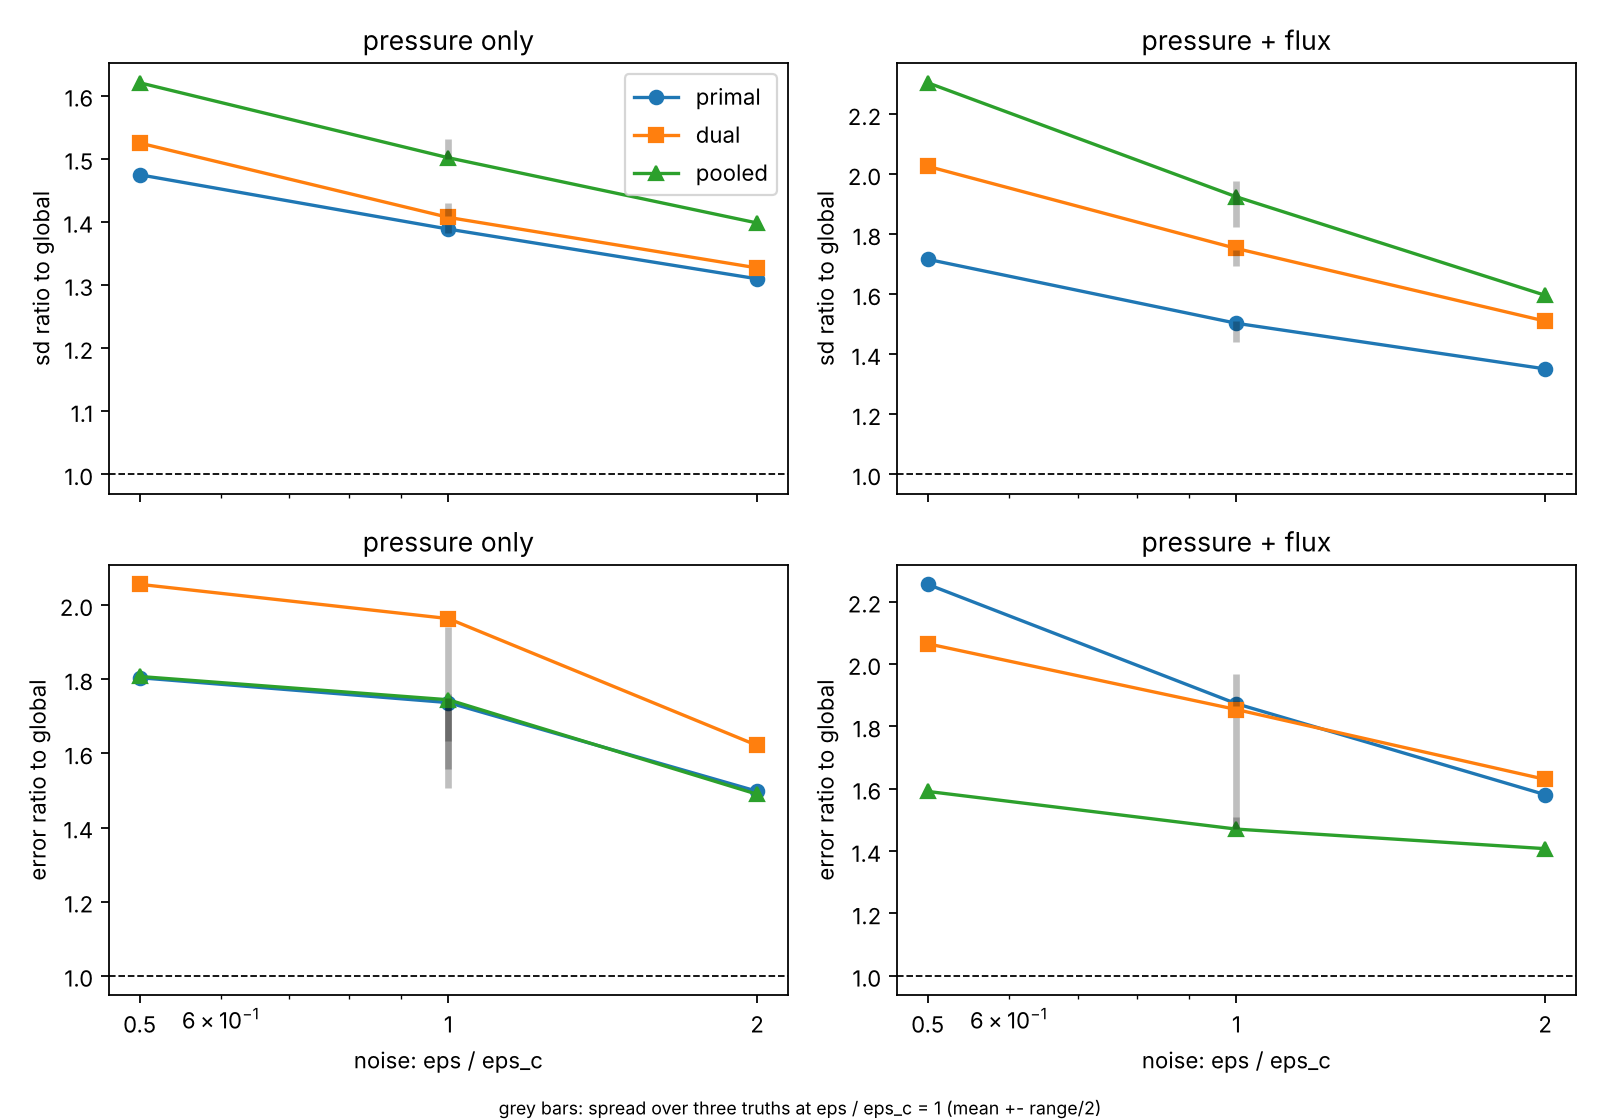
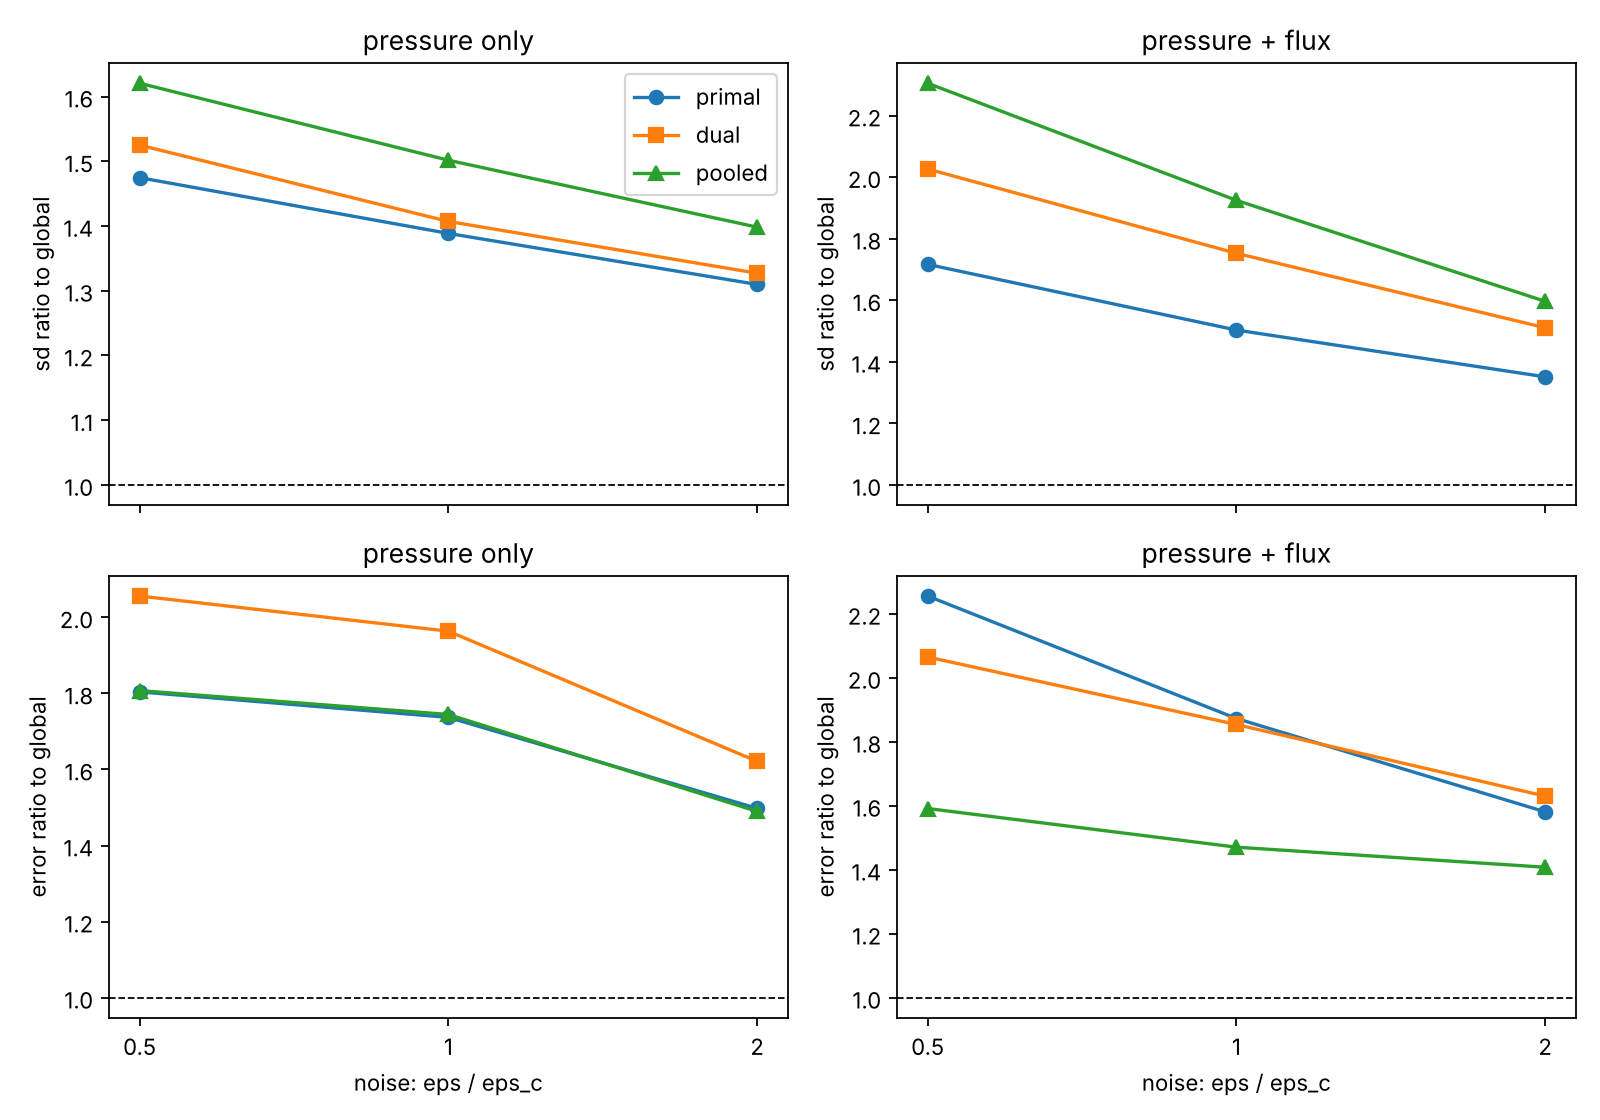
Figures: remove repeated-truth bars from the summary figures; add truth_spread.png
Claude-Session: https://claude.ai/code/session_01EYWgucWp5VMKdEriH5G1ud

diff --git a/experiments/dd_end_noise_sweep.py b/experiments/dd_end_noise_sweep.py
@@ -1,6 +1,6 @@
 #!/usr/bin/env python3
 """Stage 7: DD to global ratios against the noise level (eps x 0.5, 1, 2) at ell 0.1, 4 x 4, truth 2026, both data types.
-Writes dd_end/noise_sweep.csv and noise_sweep.png.  The eps x 1 band is the spread over the three truths (stage 6)."""
+Writes dd_end/noise_sweep.csv and noise_sweep.png.  Single truth (2026); the repeated truths are shown in truth_spread.png (dd_end_truth_figs.py)."""
 import os
 import matplotlib; matplotlib.use("Agg")
 import matplotlib.pyplot as plt
@@ -11,7 +11,6 @@ d = pd.read_csv(os.path.join(D, "master_table.csv"))
 x = d[(d.ell == 0.1) & (d.truth == 2026) & d.variant.isin(["primal", "dual", "pooled"]) & ((d.blocks == 4) | d.blocks.isna()) & ~d.label.str.contains("DD-H")]
 x = x.drop_duplicates(["label", "variant", "eps_factor"]).sort_values(["flux", "variant", "eps_factor"])
 x[["flux", "variant", "eps_factor", "sd_mean", "err_rms", "sd_ratio", "err_ratio", "cover90", "sup_mpsrf"]].round(3).to_csv(os.path.join(D, "noise_sweep.csv"), index=False)
-t3 = pd.read_csv(os.path.join(D, "three_truth.csv")).set_index(["flux", "family"])
 fig, ax = plt.subplots(2, 2, figsize=(10, 7), sharex=True)
 for j, flux in enumerate([False, True]):
     for i, (col, name) in enumerate([("sd_ratio", "sd ratio to global"), ("err_ratio", "error ratio to global")]):
@@ -19,11 +18,9 @@ for j, flux in enumerate([False, True]):
         for var, mk in [("primal", "o"), ("dual", "s"), ("pooled", "^")]:
             g = x[(x.flux == flux) & (x.variant == var)]
             a.plot(g.eps_factor, g[col], marker=mk, label=var)
-            r = t3.loc[(flux, var)]
-            a.vlines(1.0, r[f"{col}_mean"] - r[f"{col}_range"] / 2, r[f"{col}_mean"] + r[f"{col}_range"] / 2, color="k", lw=3, alpha=.25)
-        a.axhline(1, color="k", lw=.8, ls="--"); a.set_xscale("log"); a.set_xticks([.5, 1, 2]); a.set_xticklabels(["0.5", "1", "2"])
+        a.axhline(1, color="k", lw=.8, ls="--"); a.set_xscale("log"); a.set_xticks([.5, 1, 2]); a.set_xticklabels(["0.5", "1", "2"]); a.minorticks_off()
         a.set_title(("pressure + flux" if flux else "pressure only")); a.set_ylabel(name)
         if i == 1: a.set_xlabel("noise: eps / eps_c")
-ax[0, 0].legend(); fig.text(.5, .005, "grey bars: spread over three truths at eps / eps_c = 1 (mean +- range/2)", ha="center", fontsize=8)
-plt.tight_layout(rect=(0, .02, 1, 1)); plt.savefig(os.path.join(D, "noise_sweep.png"), dpi=160)
+ax[0, 0].legend()
+plt.tight_layout(); plt.savefig(os.path.join(D, "noise_sweep.png"), dpi=160)
 print(x[["flux", "variant", "eps_factor", "sd_ratio", "err_ratio"]].round(2).to_string(index=False))

diff --git a/experiments/dd_end_ratio_figs.py b/experiments/dd_end_ratio_figs.py
@@ -1,5 +1,5 @@
 #!/usr/bin/env python3
-"""Summary figures from dd_end/master_table.csv (truth 2026, eps x 1; the stage 6 truths are shown as spread bars at ell 0.1, 4 x 4):
+"""Summary figures from dd_end/master_table.csv (truth 2026, eps x 1; the repeated truths are NOT shown here, see dd_end_truth_figs.py):
   ratio_vs_ell.png          DD primal / global error and sd ratio against ell, one line per block count, both data types
   ratio_vs_side_over_ell.png  the same points against block side over ell (1 / (blocks x ell)), coloured by ell
   ladder_bars.png           global = 1, MSM basis, DD primal, DD dual, pooled at 4 x 4 for every ell and data type (error and sd ratio)
@@ -14,7 +14,6 @@ D = os.path.join(os.path.dirname(os.path.abspath(__file__)), "..", "runs", "msm_
 d = pd.read_csv(os.path.join(D, "master_table.csv"))
 d = d[(d.truth == 2026) & (d.eps_factor == 1.0) & d.sd_ratio.notna() & ~d.label.str.contains("DD-H")].drop_duplicates(["label", "variant"])
 d = d[~((d.blocks == 8) & d.variant.isin(["dual", "pooled"]) & d.flux & (d.ell < 0.2))]
-t3 = pd.read_csv(os.path.join(D, "three_truth.csv")).set_index(["flux", "family"])
 COL = {2: "#1f77b4", 4: "#d95f02", 8: "#1b9e77"}
 M = [("err_ratio", "error ratio to global"), ("sd_ratio", "sd ratio to global")]
 data = {False: "pressure only", True: "pressure + flux"}
@@ -27,13 +26,11 @@ for j, flux in enumerate(data):
         for nb in (2, 4, 8):
             g = d[(d.variant == "primal") & (d.flux == flux) & (d.blocks == nb)].sort_values("ell")
             a.plot(g.ell, g[col], marker="o", color=COL[nb], label=f"{nb} x {nb} blocks")
-        r = t3.loc[(flux, "primal")]
-        a.errorbar([0.1], [r[f"{col}_mean"]], yerr=[r[f"{col}_range"] / 2], color=COL[4], capsize=4, lw=0, elinewidth=3, alpha=.4)
         a.axhline(1, color="k", lw=.8, ls="--"); a.set_xscale("log"); a.set_xticks([.05, .1, .2]); a.set_xticklabels(["0.05", "0.1", "0.2"]); a.minorticks_off()
         a.set_title(data[flux]); a.set_ylabel(name)
         if i == 1: a.set_xlabel("correlation length ell")
-ax[0, 0].legend(); fig.text(.5, .005, "faded bar: spread over three truths (4 x 4, ell 0.1)", ha="center", fontsize=8)
-plt.tight_layout(rect=(0, .02, 1, 1)); plt.savefig(os.path.join(D, "ratio_vs_ell.png"), dpi=160); plt.close()
+ax[0, 0].legend()
+plt.tight_layout(); plt.savefig(os.path.join(D, "ratio_vs_ell.png"), dpi=160); plt.close()
 
 # 2. against block side over ell
 fig, ax = plt.subplots(2, 2, figsize=(10, 7), sharex=True)

diff --git a/experiments/dd_end_truth_figs.py b/experiments/dd_end_truth_figs.py
@@ -1,0 +1,30 @@
+#!/usr/bin/env python3
+"""Repeatability figure: the ell 0.1, 4 x 4 column over the three truths (2026, 2027, 2028).
+For each data type and metric (error ratio, sd ratio to the global pCN of the same truth) one dot per truth for global pCN in the MSM
+basis, DD primal, DD dual and DD pooled, with the mean as a bar.  Reads dd_end/three_truth.csv (dd_end_truth_spread.py);
+writes dd_end/truth_spread.png.  The other summary figures show truth 2026 only."""
+import os
+import numpy as np
+import matplotlib; matplotlib.use("Agg")
+import matplotlib.pyplot as plt
+import pandas as pd
+
+D = os.path.join(os.path.dirname(os.path.abspath(__file__)), "..", "runs", "msm_local_kle_2026-11", "dd_end")
+t = pd.read_csv(os.path.join(D, "three_truth.csv")).set_index(["flux", "family"])
+FAM = [("msm", "MSM basis"), ("primal", "DD primal"), ("dual", "DD dual"), ("pooled", "DD pooled")]
+TR = {2026: ("o", "#1f77b4"), 2027: ("s", "#d95f02"), 2028: ("^", "#1b9e77")}
+fig, ax = plt.subplots(2, 2, figsize=(10, 7), sharex=True)
+for j, flux in enumerate([False, True]):
+    for i, (col, name) in enumerate([("err_ratio", "error ratio to global (same truth)"), ("sd_ratio", "sd ratio to global (same truth)")]):
+        a = ax[i, j]
+        for k, (fam, lab) in enumerate(FAM):
+            r = t.loc[(flux, fam)]
+            for tr, (mk, c) in TR.items():
+                a.plot([k + (tr - 2027) * 0.12], [r[f"{col}_{tr}"]], marker=mk, color=c, ls="", ms=7, label=f"truth {tr}" if (i, j, k) == (0, 0, 0) else None)
+            a.hlines(r[f"{col}_mean"], k - 0.22, k + 0.22, color="k", lw=1.5)
+        a.axhline(1, color="k", lw=.8, ls="--")
+        a.set_xticks(range(len(FAM))); a.set_xticklabels([l for _, l in FAM])
+        a.set_title("pressure + flux" if flux else "pressure only"); a.set_ylabel(name)
+ax[0, 0].legend(fontsize=8)
+fig.text(.5, .005, "ell 0.1, 4 x 4 blocks; black bar: mean over the three truths", ha="center", fontsize=8)
+plt.tight_layout(rect=(0, .02, 1, 1)); plt.savefig(os.path.join(D, "truth_spread.png"), dpi=160)
